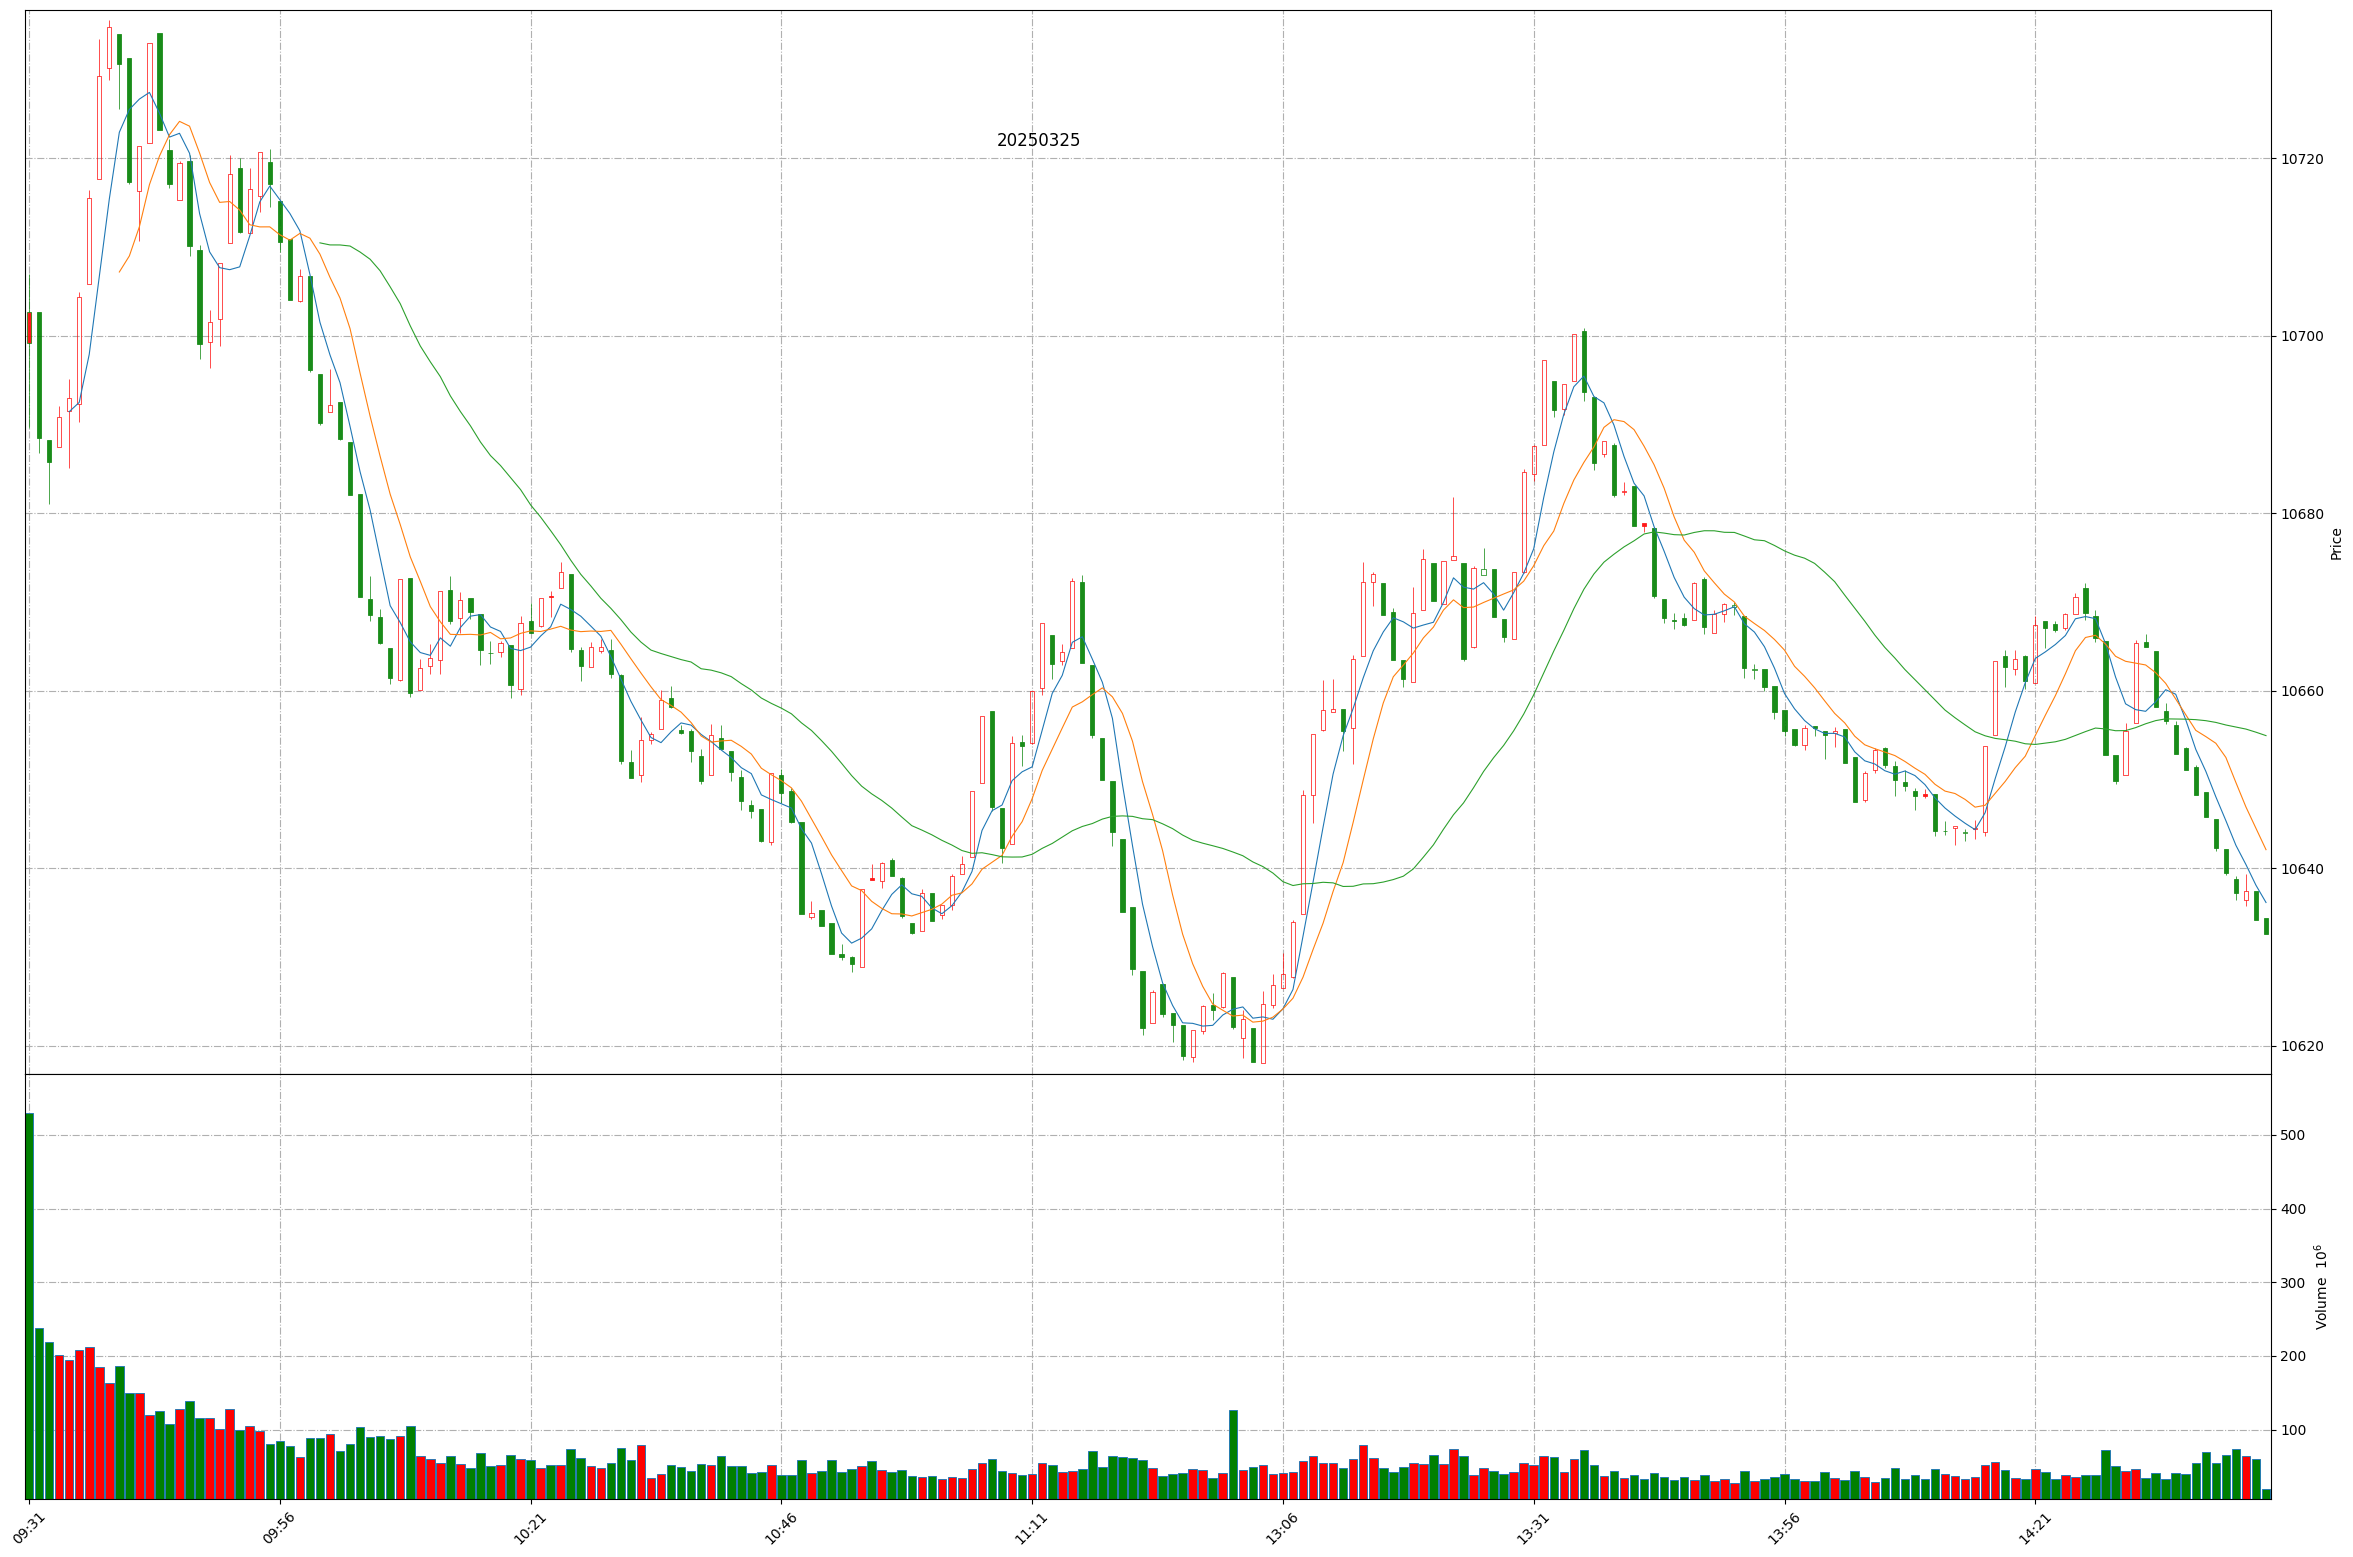
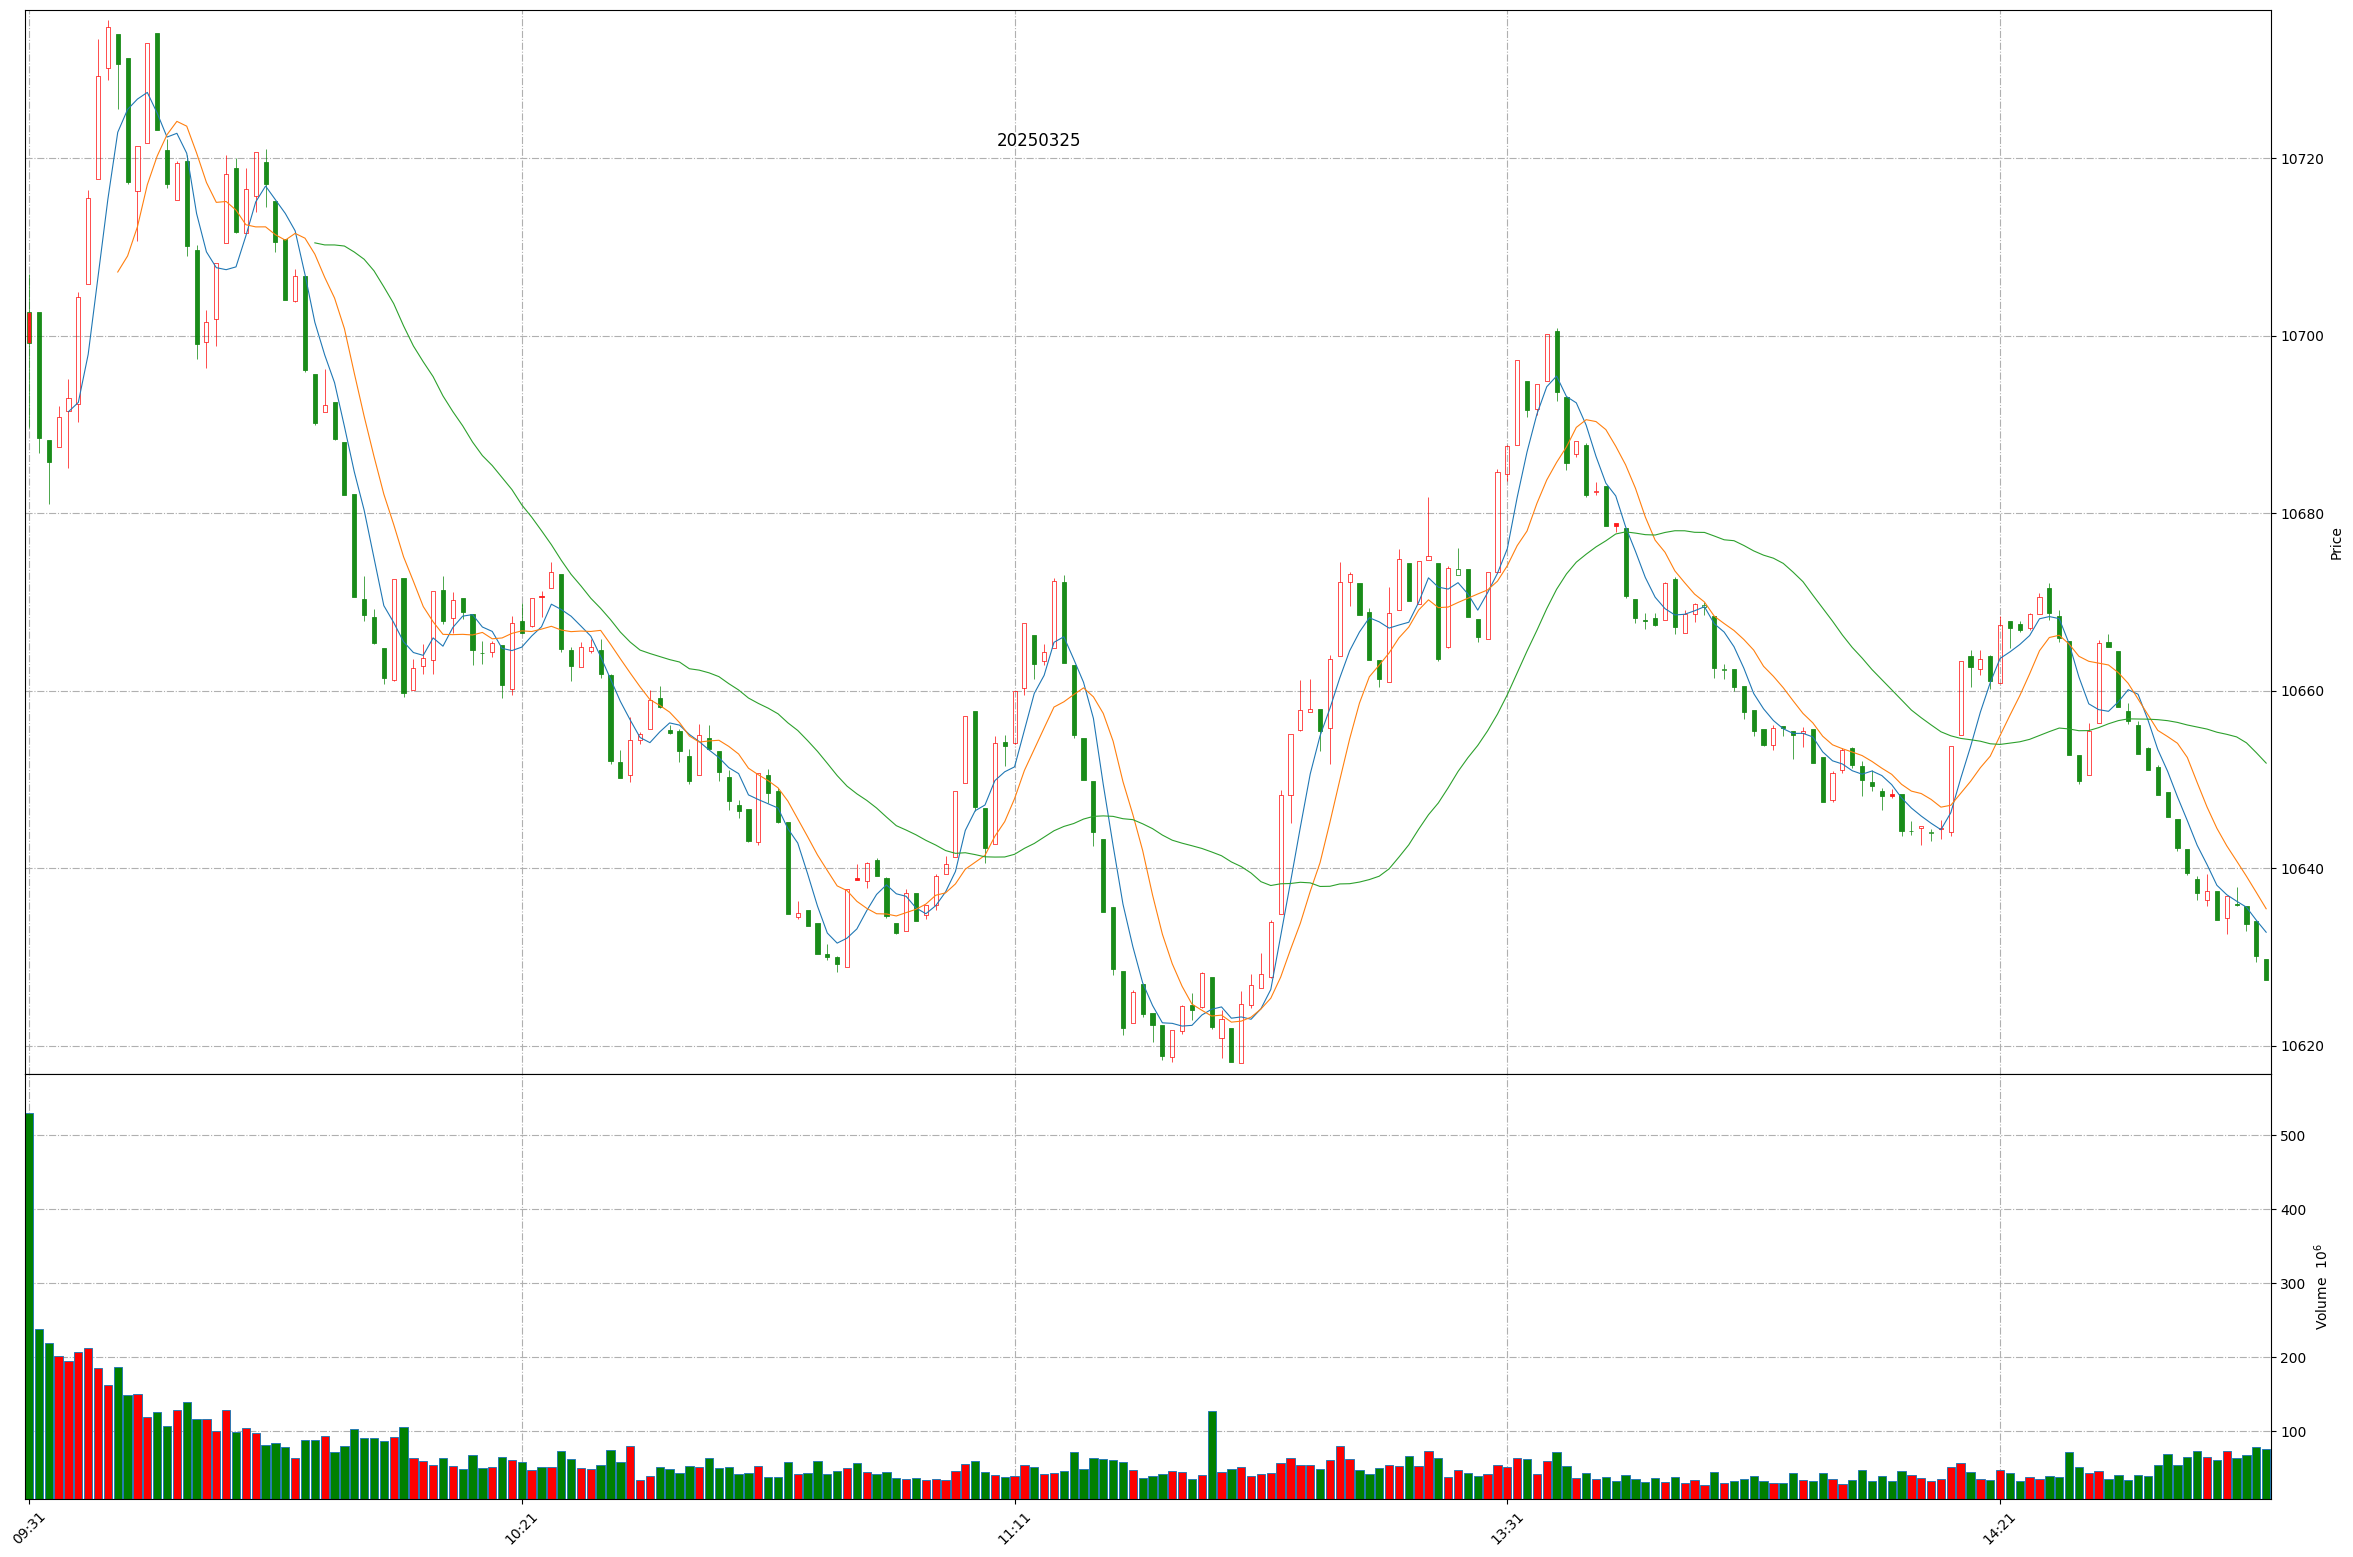
Github action update at 2025-03-25 14:47:56.

diff --git a/README.md b/README.md
@@ -1,11 +1,11 @@
 
 # Daily-A-share-market-quotes 每日 A 股指数（5min 更新）- 20250325
 
-### 上证指数 20250325 14:43
+### 上证指数 20250325 14:47
 ![](./fig/2025/3/20250325-sh000001.png)
 
-### 深证成指 20250325 14:43
+### 深证成指 20250325 14:47
 ![](./fig/2025/3/20250325-sz399001.png)
 
-### 北证50 20250325 14:43
+### 北证50 20250325 14:47
 ![](./fig/2025/3/20250325-bj899050.png)
